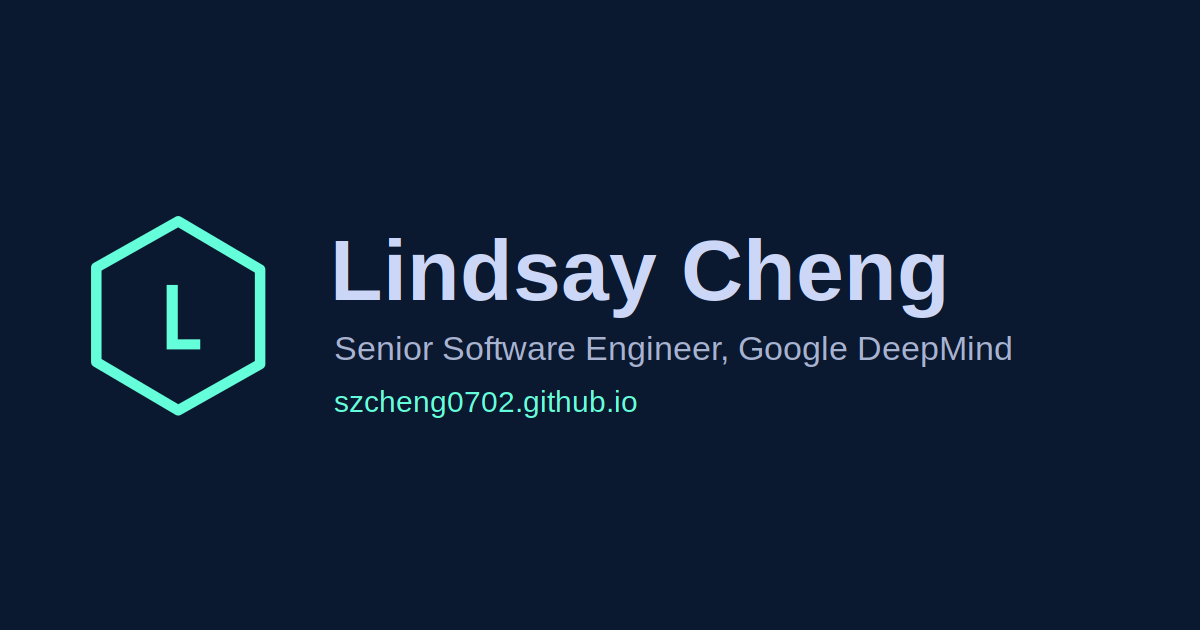
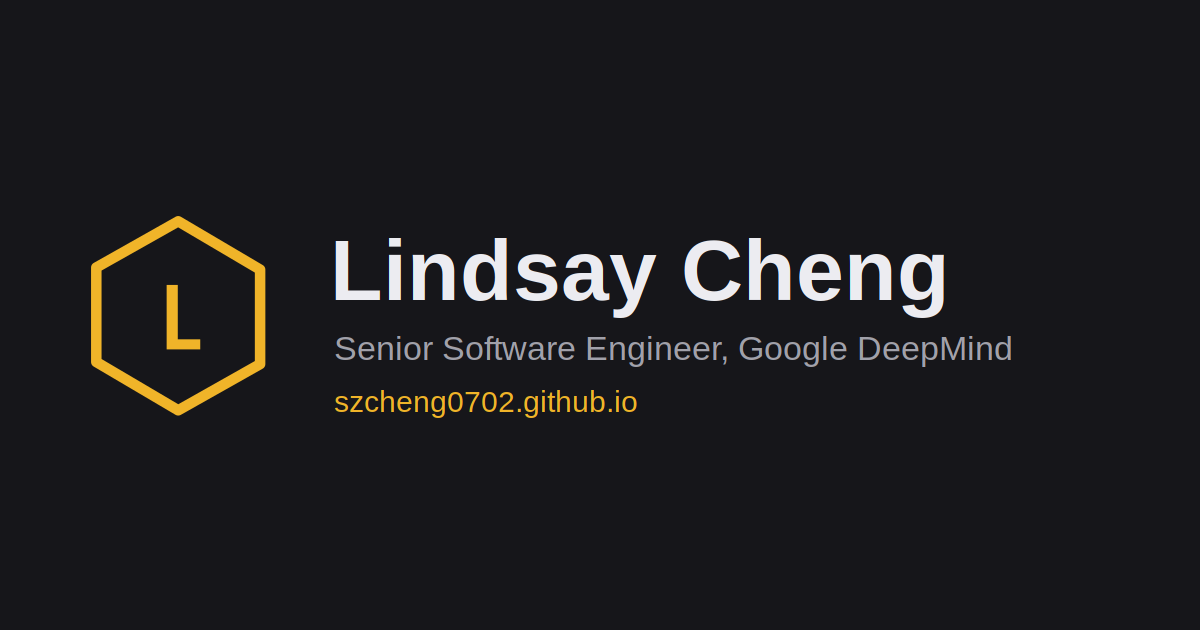
Switch to a warm charcoal + amber palette and drop the portrait
- Remove the About portrait and its styles; the section is now a single
  full-width column
- Repalette from the template's navy/mint to a warm neutral charcoal
  background (#16161a) with an amber accent (#f0b429)
- Move the nav's hardcoded translucent background into a
  --navy-translucent variable, so the whole palette now lives in
  src/styles/variables.js
- Retheme the Prism code-block colours to sit on charcoal rather than navy
- Regenerate the logo and og images in the new colours

The variable names (navy / green / slate) are inherited from the template
and describe each colour's role, not its hue; noted in variables.js.

Claude-Session: https://claude.ai/code/session_016yXoZM744xTY9DQNVXqe51

diff --git a/src/components/sections/about.js b/src/components/sections/about.js
@@ -1,5 +1,4 @@
 import React, { useEffect, useRef } from 'react';
-import { StaticImage } from 'gatsby-plugin-image';
 import styled from 'styled-components';
 import { srConfig } from '@config';
 import sr from '@utils/sr';
@@ -9,13 +8,7 @@ const StyledAboutSection = styled.section`
   max-width: 900px;
 
   .inner {
-    display: grid;
-    grid-template-columns: 3fr 2fr;
-    grid-gap: 50px;
-
-    @media (max-width: 768px) {
-      display: block;
-    }
+    display: block;
   }
 `;
 const StyledText = styled.div`
@@ -46,73 +39,6 @@ const StyledText = styled.div`
     }
   }
 `;
-const StyledPic = styled.div`
-  position: relative;
-  max-width: 300px;
-
-  @media (max-width: 768px) {
-    margin: 50px auto 0;
-    width: 70%;
-  }
-
-  .wrapper {
-    ${({ theme }) => theme.mixins.boxShadow};
-    display: block;
-    position: relative;
-    width: 100%;
-    border-radius: var(--border-radius);
-    background-color: var(--green);
-
-    &:hover,
-    &:focus {
-      outline: 0;
-      transform: translate(-4px, -4px);
-
-      &:after {
-        transform: translate(8px, 8px);
-      }
-
-      .img {
-        filter: none;
-        mix-blend-mode: normal;
-      }
-    }
-
-    .img {
-      position: relative;
-      border-radius: var(--border-radius);
-      mix-blend-mode: multiply;
-      filter: grayscale(100%) contrast(1);
-      transition: var(--transition);
-    }
-
-    &:before,
-    &:after {
-      content: '';
-      display: block;
-      position: absolute;
-      width: 100%;
-      height: 100%;
-      border-radius: var(--border-radius);
-      transition: var(--transition);
-    }
-
-    &:before {
-      top: 0;
-      left: 0;
-      background-color: var(--navy);
-      mix-blend-mode: screen;
-    }
-
-    &:after {
-      border: 2px solid var(--green);
-      top: 14px;
-      left: 14px;
-      z-index: -1;
-    }
-  }
-`;
-
 const About = () => {
   const revealContainer = useRef(null);
   const prefersReducedMotion = usePrefersReducedMotion();
@@ -183,19 +109,6 @@ const About = () => {
             {skills && skills.map((skill, i) => <li key={i}>{skill}</li>)}
           </ul>
         </StyledText>
-
-        <StyledPic>
-          <div className="wrapper">
-            <StaticImage
-              className="img"
-              src="../../images/me.jpg"
-              width={500}
-              quality={95}
-              formats={['AUTO', 'WEBP', 'AVIF']}
-              alt="Headshot"
-            />
-          </div>
-        </StyledPic>
       </div>
     </StyledAboutSection>
   );

diff --git a/src/styles/variables.js b/src/styles/variables.js
@@ -2,20 +2,26 @@ import { css } from 'styled-components';
 
 const variables = css`
   :root {
-    --dark-navy: #020c1b;
-    --navy: #0a192f;
-    --light-navy: #112240;
-    --lightest-navy: #233554;
-    --navy-shadow: rgba(2, 12, 27, 0.7);
-    --dark-slate: #495670;
-    --slate: #8892b0;
-    --light-slate: #a8b2d1;
-    --lightest-slate: #ccd6f6;
-    --white: #e6f1ff;
-    --green: #64ffda;
-    --green-tint: rgba(100, 255, 218, 0.1);
-    --pink: #f57dff;
-    --blue: #57cbff;
+    /* Palette: warm charcoal + amber.
+       The variable names (navy / green / slate) are inherited from the v4
+       template and describe each colour's ROLE, not its hue — --navy is the
+       page background, --green the accent, --slate the body text. */
+
+    --dark-navy: #0f0f12;
+    --navy: #16161a;
+    --light-navy: #212127;
+    --lightest-navy: #2e2e36;
+    --navy-shadow: rgba(15, 15, 18, 0.7);
+    --navy-translucent: rgba(22, 22, 26, 0.85);
+    --dark-slate: #6b6b76;
+    --slate: #a1a1aa;
+    --light-slate: #c4c4cd;
+    --lightest-slate: #ececf1;
+    --white: #fafafa;
+    --green: #f0b429;
+    --green-tint: rgba(240, 180, 41, 0.1);
+    --pink: #f2779a;
+    --blue: #7cc4e8;
 
     --font-sans: 'Calibre', 'Inter', 'San Francisco', 'SF Pro Text', -apple-system, system-ui,
       sans-serif;

diff --git a/src/styles/PrismStyles.js b/src/styles/PrismStyles.js
@@ -1,16 +1,18 @@
 import { css } from 'styled-components';
 
+// Syntax theme for code blocks, tuned to sit on the warm charcoal palette
+// in src/styles/variables.js rather than the template's original navy.
 const prismColors = {
-  bg: `#112340`,
-  lineHighlight: `#1d2d50`,
-  blue: `#5ccfe6`,
-  purple: `#c3a6ff`,
-  green: `#bae67e`,
-  yellow: `#ffd580`,
-  orange: `#ffae57`,
-  red: `#ef6b73`,
-  grey: `#a2aabc`,
-  comment: `#8695b799`,
+  bg: `#1c1c21`,
+  lineHighlight: `#2a2a31`,
+  blue: `#7cc4e8`,
+  purple: `#c9a8f0`,
+  green: `#b5cf87`,
+  yellow: `#f0b429`,
+  orange: `#e8a05c`,
+  red: `#ef7d7d`,
+  grey: `#b4b4bd`,
+  comment: `#7a7a86`,
 };
 
 // https://www.gatsbyjs.org/packages/gatsby-remark-prismjs

diff --git a/src/components/nav.js b/src/components/nav.js
@@ -17,7 +17,7 @@ const StyledHeader = styled.header`
   padding: 0px 50px;
   width: 100%;
   height: var(--nav-height);
-  background-color: rgba(10, 25, 47, 0.85);
+  background-color: var(--navy-translucent);
   filter: none !important;
   pointer-events: auto !important;
   user-select: auto !important;
@@ -38,7 +38,7 @@ const StyledHeader = styled.header`
       css`
         height: var(--nav-scroll-height);
         transform: translateY(0px);
-        background-color: rgba(10, 25, 47, 0.85);
+        background-color: var(--navy-translucent);
         box-shadow: 0 10px 30px -10px var(--navy-shadow);
       `};
 

diff --git a/src/config.js b/src/config.js
@@ -62,10 +62,12 @@ module.exports = {
     },
   ],
 
+  // Kept in sync with src/styles/variables.js — used for the PWA manifest
+  // theme colours and the traced-SVG placeholder colour for markdown images.
   colors: {
-    green: '#64ffda',
-    navy: '#0a192f',
-    darkNavy: '#020c1b',
+    green: '#f0b429',
+    navy: '#16161a',
+    darkNavy: '#0f0f12',
   },
 
   srConfig: (delay = 200, viewFactor = 0.25) => ({
